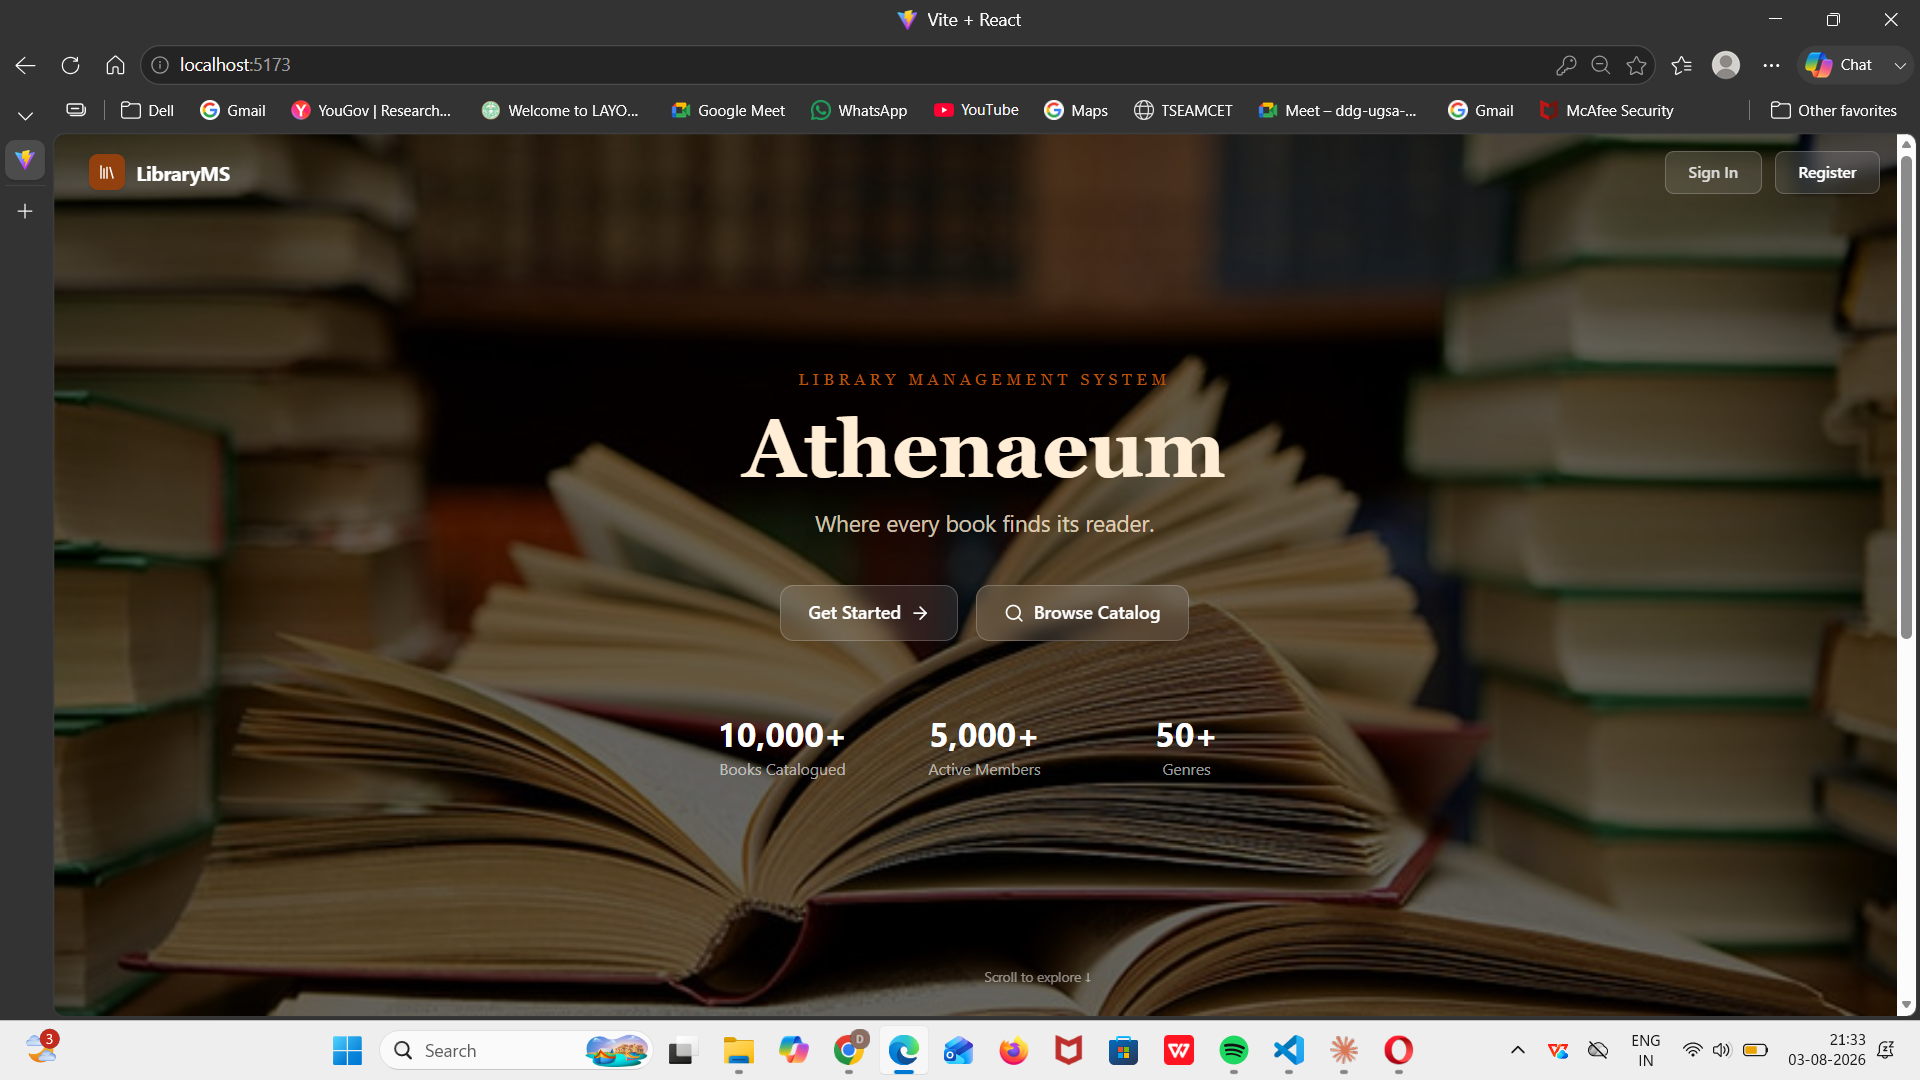
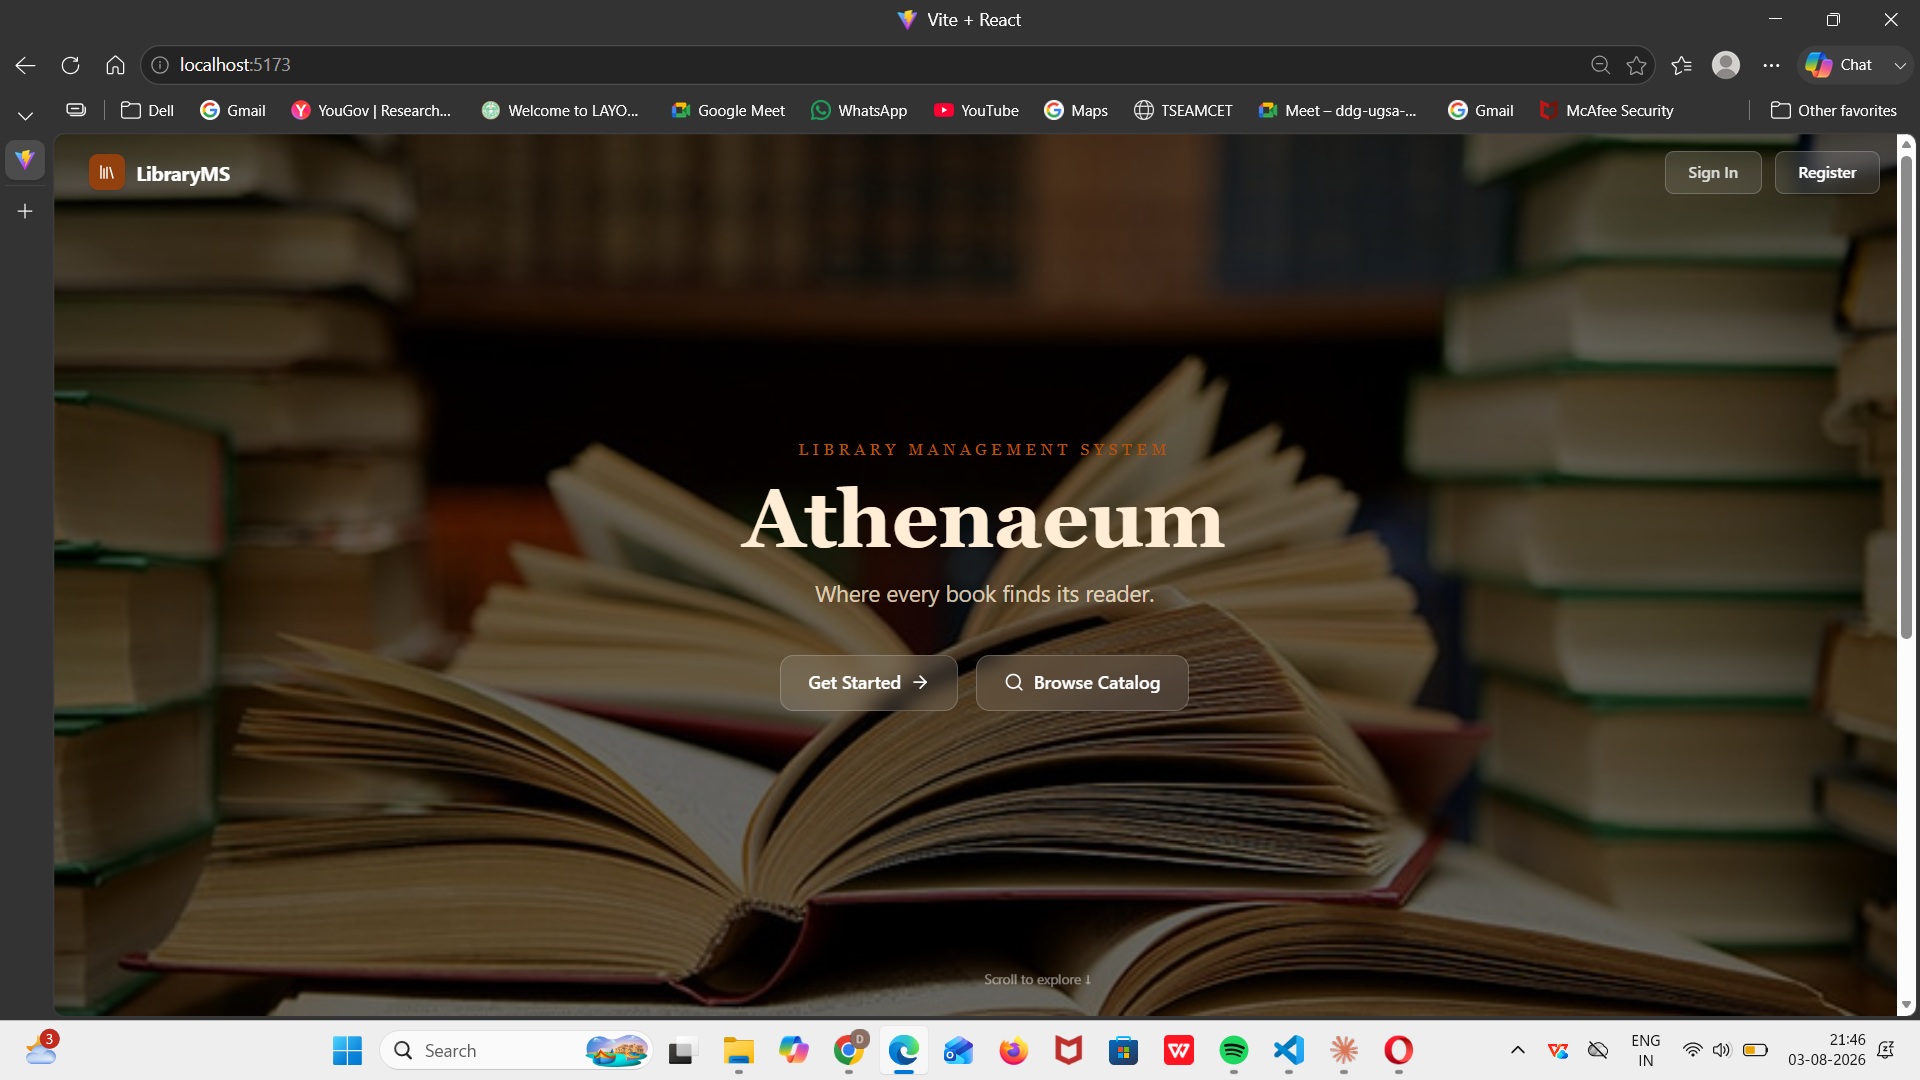
Updates screenshots

diff --git a/frontend/src/pages/Home.jsx b/frontend/src/pages/Home.jsx
@@ -13,11 +13,11 @@ import {
 const LIBRARY_NAME = "Athenaeum"
 const TAGLINE = "Where every book finds its reader."
 
-const STATS = [
-  { label: "Books Catalogued", value: "10,000+" },
-  { label: "Active Members", value: "5,000+" },
-  { label: "Genres", value: "50+" },
-]
+// const STATS = [
+//   { label: "Books Catalogued", value: "10,000+" },
+//   { label: "Active Members", value: "5,000+" },
+//   { label: "Genres", value: "50+" },
+// ]
 
 const FEATURES = [
   {
@@ -86,7 +86,7 @@ export default function Home() {
               </Link>
             </div>
 
-            {/* Stats */}
+            {/* Stats 
             <div className="mt-16 grid grid-cols-3 gap-8 md:gap-16 font-sans">
               {STATS.map((stat) => (
                 <div key={stat.label} className="text-center">
@@ -94,7 +94,7 @@ export default function Home() {
                   <p className="text-xs md:text-sm text-white/60 mt-1">{stat.label}</p>
                 </div>
               ))}
-            </div>
+            </div>*/}
           </div>
 
           {/* Scroll cue */}
